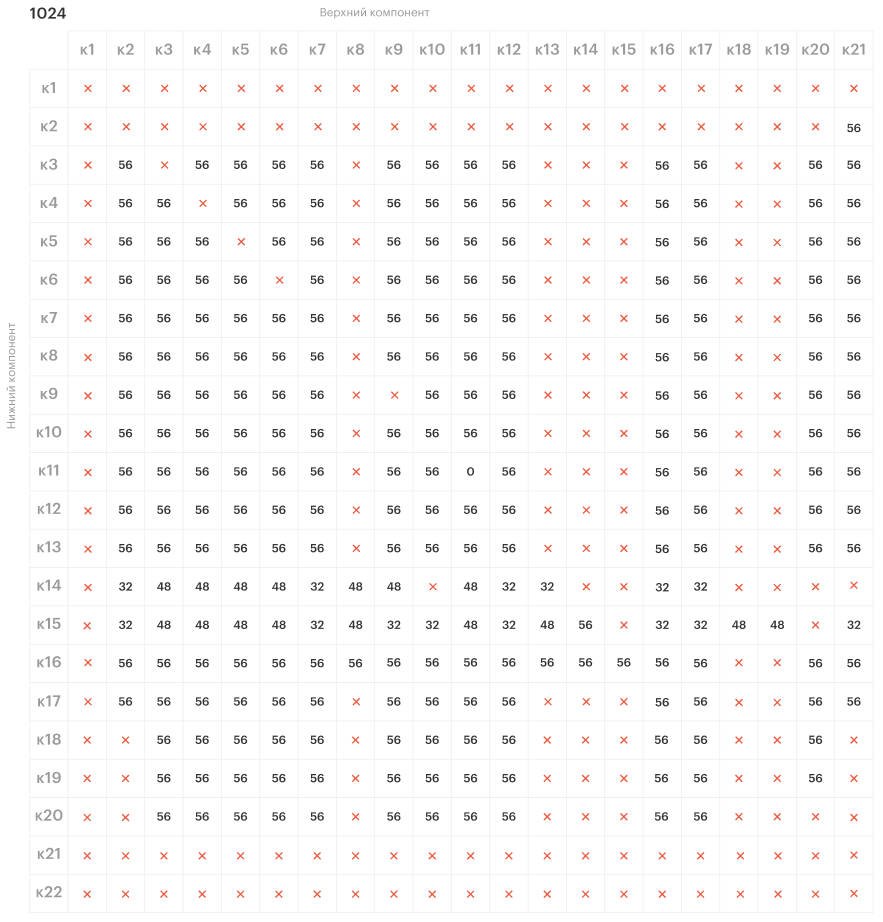
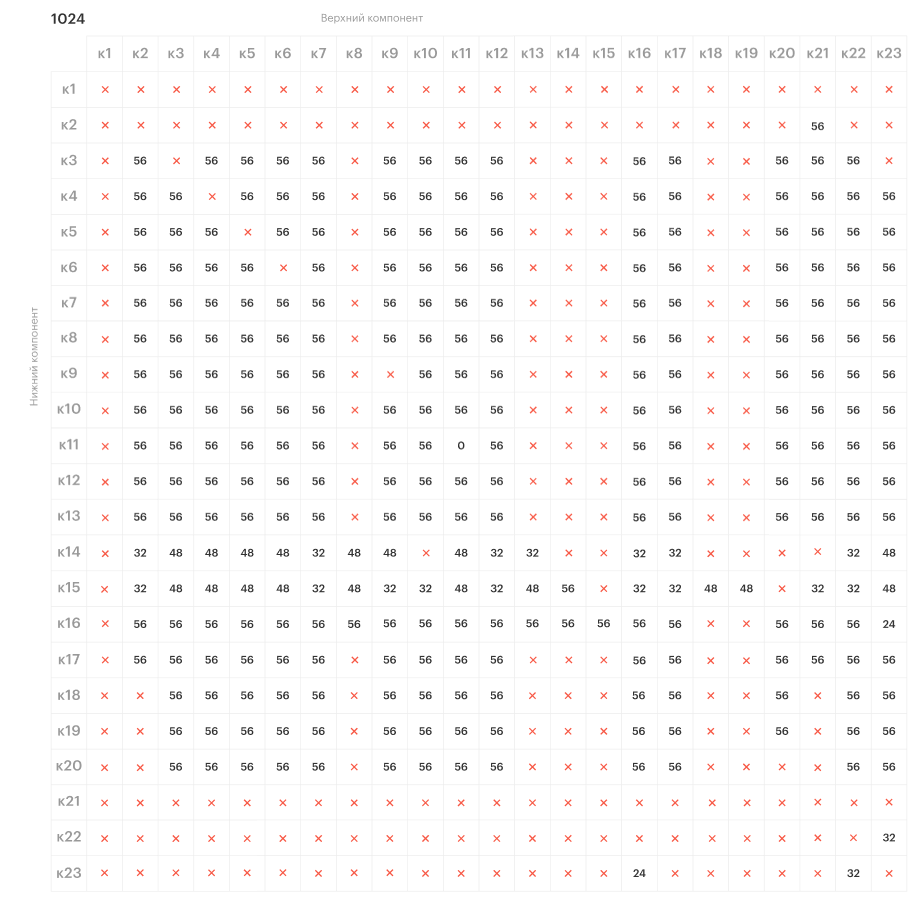
feat(container): add rules for TextWithIcon component

diff --git a/packages/ui-shared/src/components/Container/Container.less b/packages/ui-shared/src/components/Container/Container.less
@@ -22,7 +22,8 @@
 @k19: e('.mfui-button-banner');
 @k20: e('.mfui-steps');
 @k21: e('.mfui-page-title');
-@components: @k1, @k2, @k3, @k4, @k5, @k6, @k7, @k8, @k9, @k10, @k11, @k12, @k13, @k14, @k15, @k16, @k17, @k18, @k19, @k20, @k21;
+@k23: e('.mfui-text-with-icon');
+@components: @k1, @k2, @k3, @k4, @k5, @k6, @k7, @k8, @k9, @k10, @k11, @k12, @k13, @k14, @k15, @k16, @k17, @k18, @k19, @k20, @k21, @k23;
 
 @color-modificator: e('&_bg-color_');
 @color-default: e('default');
@@ -32,6 +33,7 @@
 @color-purple: e('purple');
 @colors: @color-default, @color-light-gray, @color-gray, @color-green, @color-purple;
 
+@smallest: 24px;
 @small: 32px;
 @medium: 40px;
 @big: 48px;
@@ -344,6 +346,7 @@
 
     .generateComponentsMargins(@large, @k16, 3, 20);
     .generateComponentsMargins(@small, @k16, 14, 15);
+    .generateComponentsMargins(@smallest, @k16, 23, 23);
 
     @media @mobileB {
         .generateComponentsMargins(@big, @k16, 3, 20);
@@ -415,6 +418,23 @@
 
     @{k21} + @{k14} {
         .disableMarginTop();
+    }
+
+    // k23(text-with-icon)
+    .generateComponentsMargins(@medium, @k23, 4, 15);
+    .generateComponentsMargins(@smallest, @k23, 16, 16);
+    .generateComponentsMargins(@medium, @k23, 17, 20);
+
+    @media @mobileB {
+        .generateComponentsMargins(@big, @k23, 4, 15);
+        .generateComponentsMargins(@smallest, @k23, 16, 16);
+        .generateComponentsMargins(@big, @k23, 17, 20);
+    }
+    @media @desktop {
+        .generateComponentsMargins(@large, @k23, 4, 13);
+        .generateComponentsMargins(@big, @k23, 14, 15);
+        .generateComponentsMargins(@smallest, @k23, 16, 16);
+        .generateComponentsMargins(@large, @k23, 17, 20);
     }
 
     &_disable-padding-top {
